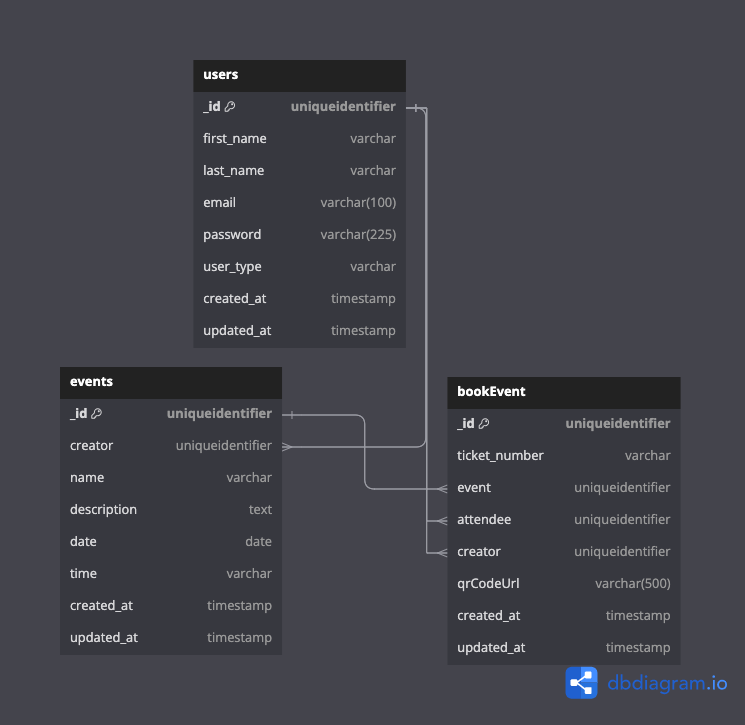
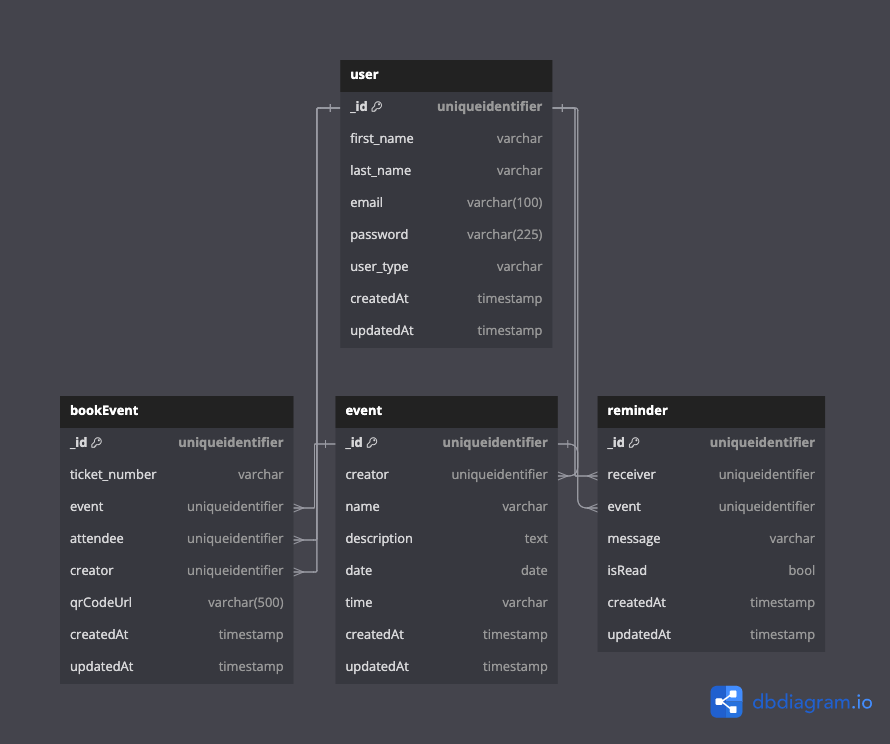
feat: add reminder

diff --git a/src/services/reminder/reminder.service.js b/src/services/reminder/reminder.service.js
@@ -27,9 +27,9 @@ class ReminderService {
       throw error;
     }
   }
-  async updateReminder(id, userId) {
+  async updateReminder({ reminderId, userId, updatedValue }) {
     try {
-      const reminder = await this.reminder.findOne({ _id: id });
+      const reminder = await this.reminder.findOne({ _id: reminderId });
 
       if (!reminder) {
         throw new this.errorResponse("Reminder not found", 404);
@@ -39,13 +39,11 @@ class ReminderService {
         throw new this.errorResponse("Not authorize to perform operation", 403);
       }
 
-      reminder.isRead = true;
-
-      const updatedReminder = await reminder.save();
+      const latestReminder = Object.assign(reminder, updatedValue);
 
       return {
         message: "Reminder is read successfully",
-        data: updatedReminder,
+        data: latestReminder,
       };
     } catch (error) {
       throw new this.errorResponse(
@@ -58,10 +56,6 @@ class ReminderService {
     try {
       const reminder = await this.reminder.findByIdAndDelete(id);
 
-      // if (!reminder) {
-      //   throw new this.errorResponse("Reminder not found", 404);
-      // }
-
       if (reminder.receiver !== userId) {
         throw new this.errorResponse("Not authorize to perform operation", 403);
       }
@@ -69,6 +63,22 @@ class ReminderService {
       return {
         message: "Reminder deleted successfully",
         data: null,
+      };
+    } catch (error) {
+      throw new this.errorResponse(
+        error.message || "An error occured, please try again later!",
+        error.status || 500
+      );
+    }
+  }
+
+  async allUserReminders(userId) {
+    try {
+      const reminders = await this.reminder.find({ receiver: userId });
+
+      return {
+        message: "user reminders",
+        data: reminders,
       };
     } catch (error) {
       throw new this.errorResponse(

diff --git a/src/controllers/reminder.controller.js b/src/controllers/reminder.controller.js
@@ -5,18 +5,23 @@ class ReminderController {
     this.service = service;
     this.updateReminder = this.updateReminder.bind(this);
     this.deleteReminder = this.deleteReminder.bind(this);
+    this.allUserReminders = this.allUserReminders.bind(this);
   }
 
   async updateReminder(req, res) {
     try {
-      const { reminderId } = req.params;
       const { _id: userId } = req.user;
+      const { reminderId, ...updatedValue } = req.body;
 
       if (!reminderId) {
         res.status(400).json({ message: "Reminder id params is required" });
       }
 
-      const result = await this.service.updateReminder(reminderId, userId);
+      const result = await this.service.updateReminder({
+        reminderId,
+        userId,
+        updatedValue,
+      });
 
       res.status(200).json(result);
     } catch (error) {
@@ -36,6 +41,20 @@ class ReminderController {
       }
 
       const result = await this.service.deleteReminder(reminderId, userId);
+
+      res.status(200).json(result);
+    } catch (error) {
+      res.status(error.status || 500).json({
+        message: error.message || "An error occured, please try again later!",
+      });
+    }
+  }
+
+  async allUserReminders(req, res) {
+    try {
+      const { _id: userId } = req.user;
+
+      const result = await this.service.allUserReminders(userId);
 
       res.status(200).json(result);
     } catch (error) {

diff --git a/src/routes/reminder.route.js b/src/routes/reminder.route.js
@@ -1,13 +1,20 @@
 import { Router } from "express";
 import { authMiddleware } from "../middlewares/auth.middleware.js";
 import ReminderController from "../controllers/reminder.controller.js";
+import { validateMiddleware } from "../middlewares/validate.middleware.js";
+import { updateReminderSchema } from "../validations/reminder.validation.js";
 
 const reminderRouter = Router();
 const reminderController = new ReminderController();
 
 reminderRouter.use(authMiddleware);
 
+reminderRouter.get("/", reminderController.allUserReminders);
+reminderRouter.put(
+  "/",
+  validateMiddleware(updateReminderSchema),
+  reminderController.updateReminder
+);
 reminderRouter.delete("/:reminderId", reminderController.deleteReminder);
-reminderRouter.get("/:reminderId", reminderController.updateReminder);
 
 export default reminderRouter;

diff --git a/src/schemas/reminder.js b/src/schemas/reminder.js
@@ -1,24 +1,29 @@
 import mongoose from "mongoose";
 
-export const reminderSchema = mongoose.Schema({
-  receiver: {
-    type: String,
-    ref: "User",
-    required: true,
-  },
-  event: {
-    type: String,
-    required: true,
-    ref: "BookEvent",
-  },
-  message: {
-    type: String,
-    required: true,
-  },
+export const reminderSchema = mongoose.Schema(
+  {
+    receiver: {
+      type: String,
+      ref: "User",
+      required: true,
+    },
+    event: {
+      type: String,
+      required: true,
+      ref: "BookEvent",
+    },
+    message: {
+      type: String,
+      required: true,
+    },
 
-  isRead: {
-    type: Boolean,
-    default: false,
-    required: true,
+    isRead: {
+      type: Boolean,
+      default: false,
+      required: true,
+    },
   },
-});
+  {
+    timestamps: true,
+  }
+);

diff --git a/src/services/event/event.service.js b/src/services/event/event.service.js
@@ -23,6 +23,7 @@ class EventService {
   async createEvent({ userId, name, desc, date, time }) {
     try {
       const user = await this.userModel.findById(userId);
+
       const existingEvent = await this.model.findOne({
         creator: userId,
         name,
@@ -32,6 +33,13 @@ class EventService {
 
       if (existingEvent) {
         throw new this.errorResponse("Event is already running", 400);
+      }
+
+      const currentDate = new Date();
+      const eventDate = new Date(date);
+
+      if (eventDate < currentDate) {
+        throw new this.errorResponse("Event date must be in the future", 400);
       }
 
       if (!user) {

diff --git a/src/app.js b/src/app.js
@@ -14,7 +14,7 @@ app.use(bodyParser.json());
 app.use(requestLogger);
 app.use("/api/v1/auth", authRoute);
 app.use("/api/v1/events", eventRoute);
-app.use("/api/v1/reminder", reminderRoute);
+app.use("/api/v1/reminders", reminderRoute);
 
 app.get("/", (_, res) => {
   res.status(200).json({

diff --git a/src/validations/reminder.validation.js b/src/validations/reminder.validation.js
@@ -1,0 +1,6 @@
+import Joi from "joi";
+
+export const updateReminderSchema = Joi.object({
+  reminderId: Joi.string().required(),
+  isRead: Joi.boolean().required(),
+});
